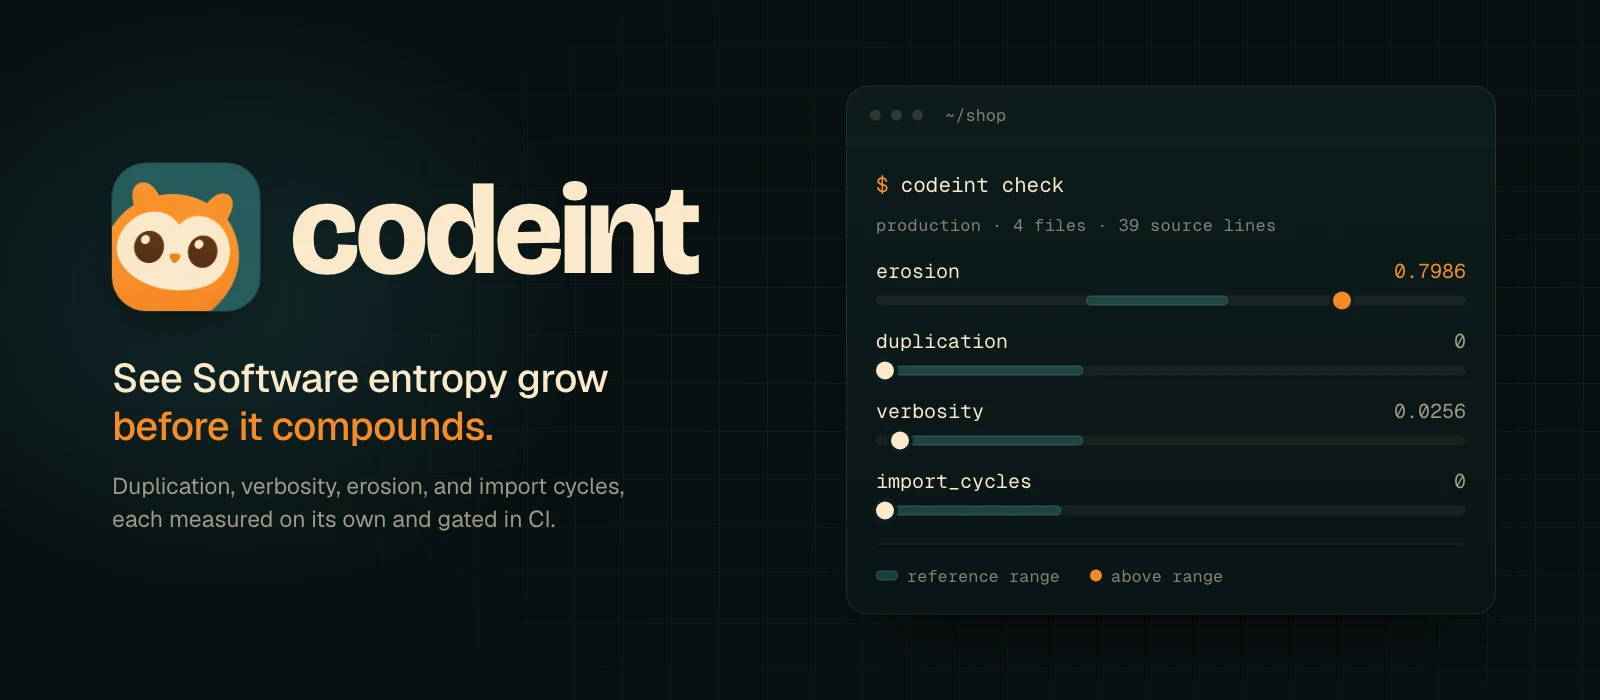
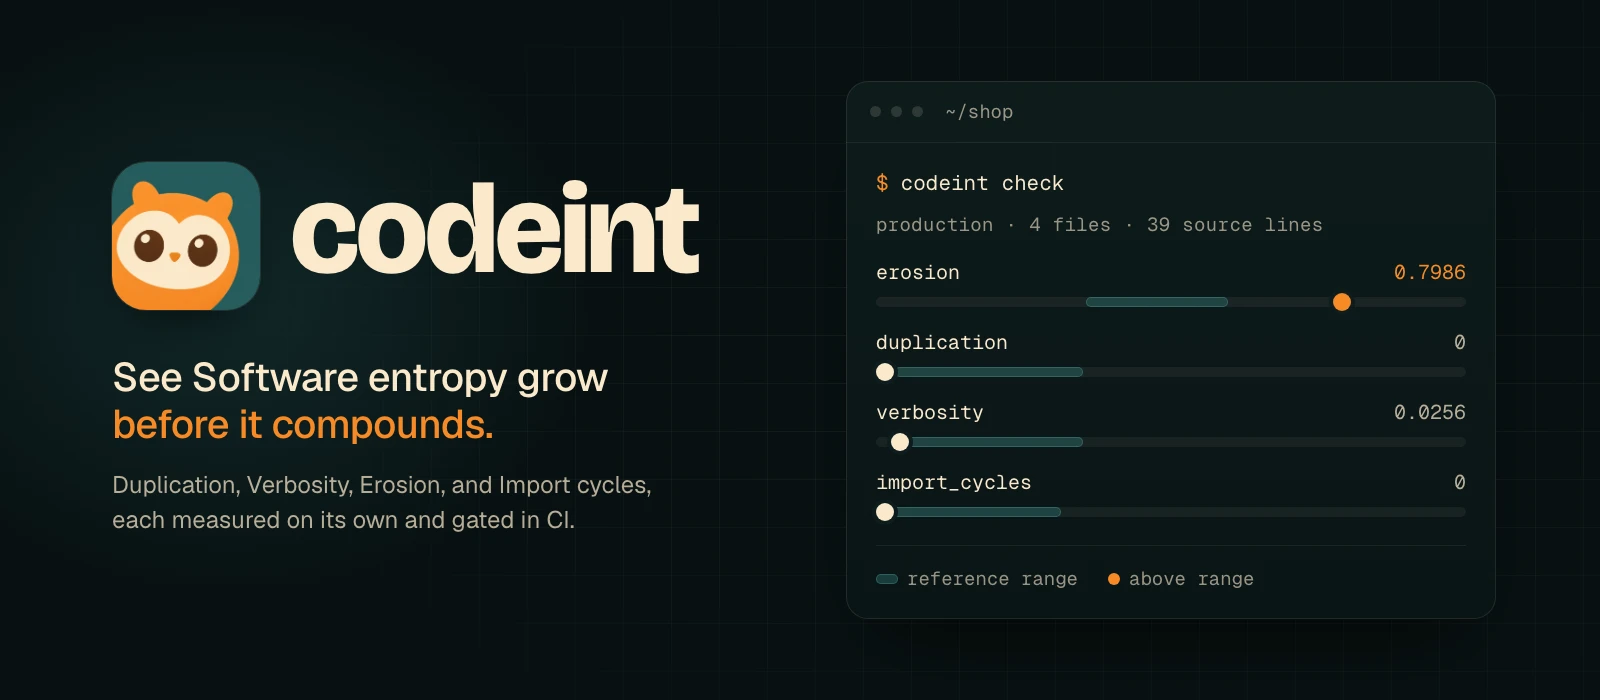
docs(docs): address review findings on branding assets
Put the README description before the navigation links, as requested,
and embed the 51 KB WebP banner instead of the PNG.

Compute the banner bars from each Metric's ratio and Reference range,
make the small panel text readable at README width, and capitalize
glossary terms. The render script now fails when Chrome writes no image.
The branding README now states the render requirements accurately.

diff --git a/assets/branding/source/banner.html b/assets/branding/source/banner.html
@@ -15,8 +15,8 @@
     --teal-soft: rgba(39, 94, 94, 0.55);
     --amber: #f78b27;
     --cream: #fbe9cb;
-    --cream-dim: rgba(251, 233, 203, 0.62);
-    --cream-faint: rgba(251, 233, 203, 0.50);
+    --cream-dim: rgba(251, 233, 203, 0.72);
+    --cream-faint: rgba(251, 233, 203, 0.60);
   }
   * { box-sizing: border-box; margin: 0; padding: 0; }
   html, body { width: 1600px; height: 700px; overflow: hidden; background: var(--ink); }
@@ -45,33 +45,32 @@
   .word { font-family: "Bricolage Grotesque", sans-serif; font-weight: 800; font-size: 128px; line-height: 1; letter-spacing: -0.028em; color: var(--cream); font-variation-settings: "opsz" 96; transform: translateY(-6px); }
   .tagline { margin-top: 44px; font-size: 40px; line-height: 1.18; font-weight: 500; letter-spacing: -0.015em; color: var(--cream); max-width: 600px; }
   .tagline em { font-style: normal; color: var(--amber); }
-  .sub { margin-top: 20px; font-size: 23px; line-height: 1.45; color: var(--cream-dim); max-width: 560px; }
+  .sub { margin-top: 20px; font-size: 24px; line-height: 1.45; color: var(--cream-dim); max-width: 560px; }
 
   .panel { position: absolute; right: 104px; top: 50%; transform: translateY(-50%); width: 650px; border-radius: 22px; background: linear-gradient(180deg, rgba(14,28,29,0.92), rgba(10,21,22,0.92)); box-shadow: inset 0 0 0 1px rgba(251,233,203,0.10), 0 40px 80px -40px rgba(0,0,0,0.8); font-family: "Geist Mono", monospace; }
   .bar { display: flex; align-items: center; gap: 10px; padding: 18px 24px; border-bottom: 1px solid var(--line); }
   .dot { width: 11px; height: 11px; border-radius: 50%; background: rgba(251,233,203,0.14); }
-  .bar .title { margin-left: 12px; font-size: 17px; color: var(--cream-faint); }
+  .bar .title { margin-left: 12px; font-size: 19px; color: var(--cream-faint); }
   .body { padding: 26px 30px 28px; }
   .prompt { font-size: 21px; color: var(--cream); }
-  .prompt .p { color: var(--amber); margin-right: 12px; }
-  .set { margin-top: 16px; font-size: 17px; color: var(--cream-faint); letter-spacing: 0.02em; }
+  .prompt-sign { color: var(--amber); margin-right: 12px; }
+  .set { margin-top: 16px; font-size: 19px; color: var(--cream-faint); letter-spacing: 0.02em; }
 
   .metric { margin-top: 22px; }
-  .metric:first-of-type { margin-top: 18px; }
   .row { display: flex; justify-content: space-between; align-items: baseline; font-size: 20px; }
   .name { color: var(--cream); }
-  .val { color: var(--cream-dim); font-variant-numeric: tabular-nums; }
-  .over .val { color: var(--amber); }
+  .value { color: var(--cream-dim); font-variant-numeric: tabular-nums; }
+  .over .value { color: var(--amber); }
   .track { position: relative; margin-top: 12px; height: 10px; border-radius: 5px; background: rgba(251,233,203,0.06); }
   .scale { position: absolute; top: 0; bottom: 0; left: 9px; right: 9px; }
   .range { position: absolute; top: 0; bottom: 0; border-radius: 5px; background: var(--teal-soft); box-shadow: inset 0 0 0 1px rgba(91, 160, 158, 0.35); }
-  .mk { position: absolute; top: 50%; width: 18px; height: 18px; margin: -9px 0 0 -9px; border-radius: 50%; background: var(--cream); box-shadow: 0 0 0 4px var(--panel); }
-  .over .mk { background: var(--amber); }
+  .marker { position: absolute; top: 50%; width: 18px; height: 18px; margin: -9px 0 0 -9px; border-radius: 50%; background: var(--cream); box-shadow: 0 0 0 4px var(--panel); }
+  .over .marker { background: var(--amber); }
 
-  .legend { margin-top: 28px; padding-top: 20px; border-top: 1px solid var(--line); display: flex; gap: 30px; font-size: 17px; color: var(--cream-faint); }
+  .legend { margin-top: 28px; padding-top: 20px; border-top: 1px solid var(--line); display: flex; gap: 30px; font-size: 19px; color: var(--cream-faint); }
   .legend span { display: inline-flex; align-items: center; gap: 9px; }
-  .sw { width: 22px; height: 10px; border-radius: 5px; background: var(--teal-soft); box-shadow: inset 0 0 0 1px rgba(91,160,158,0.35); }
-  .sd { width: 12px; height: 12px; border-radius: 50%; background: var(--amber); }
+  .swatch-range { width: 22px; height: 10px; border-radius: 5px; background: var(--teal-soft); box-shadow: inset 0 0 0 1px rgba(91,160,158,0.35); }
+  .swatch-over { width: 12px; height: 12px; border-radius: 50%; background: var(--amber); }
 </style>
 <script>
   if (new URLSearchParams(location.search).has("social")) document.documentElement.classList.add("social");
@@ -88,38 +87,50 @@
       <div class="word">codeint</div>
     </div>
     <p class="tagline">See Software entropy grow <em>before it compounds.</em></p>
-    <p class="sub">Duplication, verbosity, erosion, and import cycles, each measured on its own and gated in CI.</p>
+    <p class="sub">Duplication, Verbosity, Erosion, and Import cycles, each measured on its own and gated in CI.</p>
   </section>
 
   <section class="panel">
     <div class="bar"><i class="dot"></i><i class="dot"></i><i class="dot"></i><span class="title">~/shop</span></div>
     <div class="body">
-      <div class="prompt"><span class="p">$</span>codeint check</div>
+      <div class="prompt"><span class="prompt-sign">$</span>codeint check</div>
       <div class="set">production · 4 files · 39 source lines</div>
 
-      <div class="metric over">
-        <div class="row"><span class="name">erosion</span><span class="val">0.7986</span></div>
-        <div class="track"><div class="scale"><div class="range" style="left:35.2%;width:24.8%"></div><div class="mk" style="left:79.86%"></div></div></div>
+      <div class="metric" data-ratio="0.7986" data-low="0.352" data-high="0.6">
+        <div class="row"><span class="name">erosion</span><span class="value">0.7986</span></div>
+        <div class="track"><div class="scale"><div class="range"></div><div class="marker"></div></div></div>
       </div>
-      <div class="metric">
-        <div class="row"><span class="name">duplication</span><span class="val">0</span></div>
-        <div class="track"><div class="scale"><div class="range" style="left:1.7%;width:32.9%"></div><div class="mk" style="left:0%"></div></div></div>
+      <div class="metric" data-ratio="0" data-low="0.017" data-high="0.346">
+        <div class="row"><span class="name">duplication</span><span class="value">0</span></div>
+        <div class="track"><div class="scale"><div class="range"></div><div class="marker"></div></div></div>
       </div>
-      <div class="metric">
-        <div class="row"><span class="name">verbosity</span><span class="val">0.0256</span></div>
-        <div class="track"><div class="scale"><div class="range" style="left:1.8%;width:32.9%"></div><div class="mk" style="left:2.56%"></div></div></div>
+      <div class="metric" data-ratio="0.0256" data-low="0.018" data-high="0.347">
+        <div class="row"><span class="name">verbosity</span><span class="value">0.0256</span></div>
+        <div class="track"><div class="scale"><div class="range"></div><div class="marker"></div></div></div>
       </div>
-      <div class="metric">
-        <div class="row"><span class="name">import_cycles</span><span class="val">0</span></div>
-        <div class="track"><div class="scale"><div class="range" style="left:0%;width:30.8%"></div><div class="mk" style="left:0%"></div></div></div>
+      <div class="metric" data-ratio="0" data-low="0" data-high="0.308">
+        <div class="row"><span class="name">import_cycles</span><span class="value">0</span></div>
+        <div class="track"><div class="scale"><div class="range"></div><div class="marker"></div></div></div>
       </div>
 
       <div class="legend">
-        <span><i class="sw"></i>reference range</span>
-        <span><i class="sd"></i>above range</span>
+        <span><i class="swatch-range"></i>reference range</span>
+        <span><i class="swatch-over"></i>above range</span>
       </div>
     </div>
   </section>
 </div>
+<script>
+  for (const metric of document.querySelectorAll(".metric")) {
+    const ratio = Number(metric.dataset.ratio);
+    const low = Number(metric.dataset.low);
+    const high = Number(metric.dataset.high);
+    const range = metric.querySelector(".range");
+    range.style.left = `${low * 100}%`;
+    range.style.width = `${(high - low) * 100}%`;
+    metric.querySelector(".marker").style.left = `${ratio * 100}%`;
+    metric.classList.toggle("over", ratio > high);
+  }
+</script>
 </body>
 </html>

diff --git a/assets/branding/README.md b/assets/branding/README.md
@@ -5,24 +5,20 @@ This folder holds the codeint mascot, its lockup, the README banner, and the rep
 ## Mascot
 
 [mascot.png](./mascot.png) is the codeint mascot: an amber owl that watches Software entropy grow before it compounds.
-It is the unchanged 1254 × 1254 output of one draw from the Codex CLI built-in `image_gen` tool, which did not report its model name.
+It is the unchanged 1254 × 1254 output of one draw from the Codex CLI built-in `image_gen` tool.
+The tool did not report its model name.
 [mascot-prompt.txt](./mascot-prompt.txt) is the exact prompt, written with the IP as Logo skill.
-[mascot.webp](./mascot.webp) is a 512 × 512 copy for small displays.
-
-The palette comes from the mascot:
-
-| Role | Color |
-| ---- | ----- |
-| Ground | `#275e5e` teal |
-| Attention | `#f78b27` amber |
-| Text | `#fbe9cb` cream |
-| Background | `#081112` ink |
 
 ## Banner, lockup, and social preview
 
 [source/banner.html](./source/banner.html) and [source/lockup.html](./source/lockup.html) are the editable sources.
-The banner panel shows the `codeint check` output of the sample repository in [docs/reference.md](../../docs/reference.md#codeint-check).
-Render every image with Google Chrome and `cwebp`:
+The color palette lives in the `:root` block of `source/banner.html`.
+The banner panel is a rendering of the `codeint check` report for the sample repository in [docs/reference.md](../../docs/reference.md#codeint-check).
+Each Metric row takes its ratio and Reference range from `data-` attributes, so update those when the reference example changes.
+
+Render the images with [source/render.sh](./source/render.sh).
+It needs Google Chrome, `cwebp`, and a network connection for Google Fonts.
+Set `CHROME` to the Chrome binary when it is not at the macOS default path:
 
 ```sh
 assets/branding/source/render.sh
@@ -30,7 +26,7 @@ assets/branding/source/render.sh
 
 The script writes these files into this folder:
 
-- `banner.png` and `banner.webp`: the 1600 × 700 README banner.
+- `banner.webp`: the 1600 × 700 README banner.
 - `social-preview.png`: the 1600 × 800 image for the repository social preview.
 - `lockup-dark.png` and `lockup-light.png`: the mascot and the wordmark on a transparent background, for dark and light pages.
 

diff --git a/README.md b/README.md
@@ -1,11 +1,18 @@
 <h1 align="center">
-  <img src="./assets/branding/banner.png" alt="codeint: see Software entropy grow before it compounds" width="100%">
+  <img src="./assets/branding/banner.webp" alt="codeint: see Software entropy grow before it compounds" width="100%">
 </h1>
 
 <p align="center">
   <a href="https://github.com/avidianity/codeint/actions/workflows/ci.yml"><img src="https://github.com/avidianity/codeint/actions/workflows/ci.yml/badge.svg?branch=main" alt="CI status"></a>
   <a href="./LICENSE"><img src="https://img.shields.io/github/license/avidianity/codeint?color=275e5e" alt="License: MIT"></a>
 </p>
+
+codeint measures the Software entropy of a codebase: duplication, needless verbosity, and complexity concentrated in a few large functions.
+It is for developers whose code is increasingly written by coding agents, so they see Software entropy grow before it compounds.
+
+codeint reports each Metric on its own, with the Findings behind it, and never blends them into one score.
+It gates CI on per-Metric Budgets and on Regressions against a base Git ref.
+Languages and Metrics are Plugins: TypeScript and JavaScript are the first built-in Language plugin, and more languages follow.
 
 <p align="center">
   <a href="#status">Status</a> ·
@@ -15,13 +22,6 @@
   <a href="./docs/plugins.md">Plugins</a> ·
   <a href="#development">Development</a>
 </p>
-
-codeint measures the Software entropy of a codebase: duplication, needless verbosity, and complexity concentrated in a few large functions.
-It is for developers whose code is increasingly written by coding agents, so they see Software entropy grow before it compounds.
-
-codeint reports each Metric on its own, with the Findings behind it, and never blends them into one score.
-It gates CI on per-Metric Budgets and on Regressions against a base Git ref.
-Languages and Metrics are Plugins: TypeScript and JavaScript are the first built-in Language plugin, and more languages follow.
 
 [GLOSSARY.md](./GLOSSARY.md) defines every term on this page.
 
